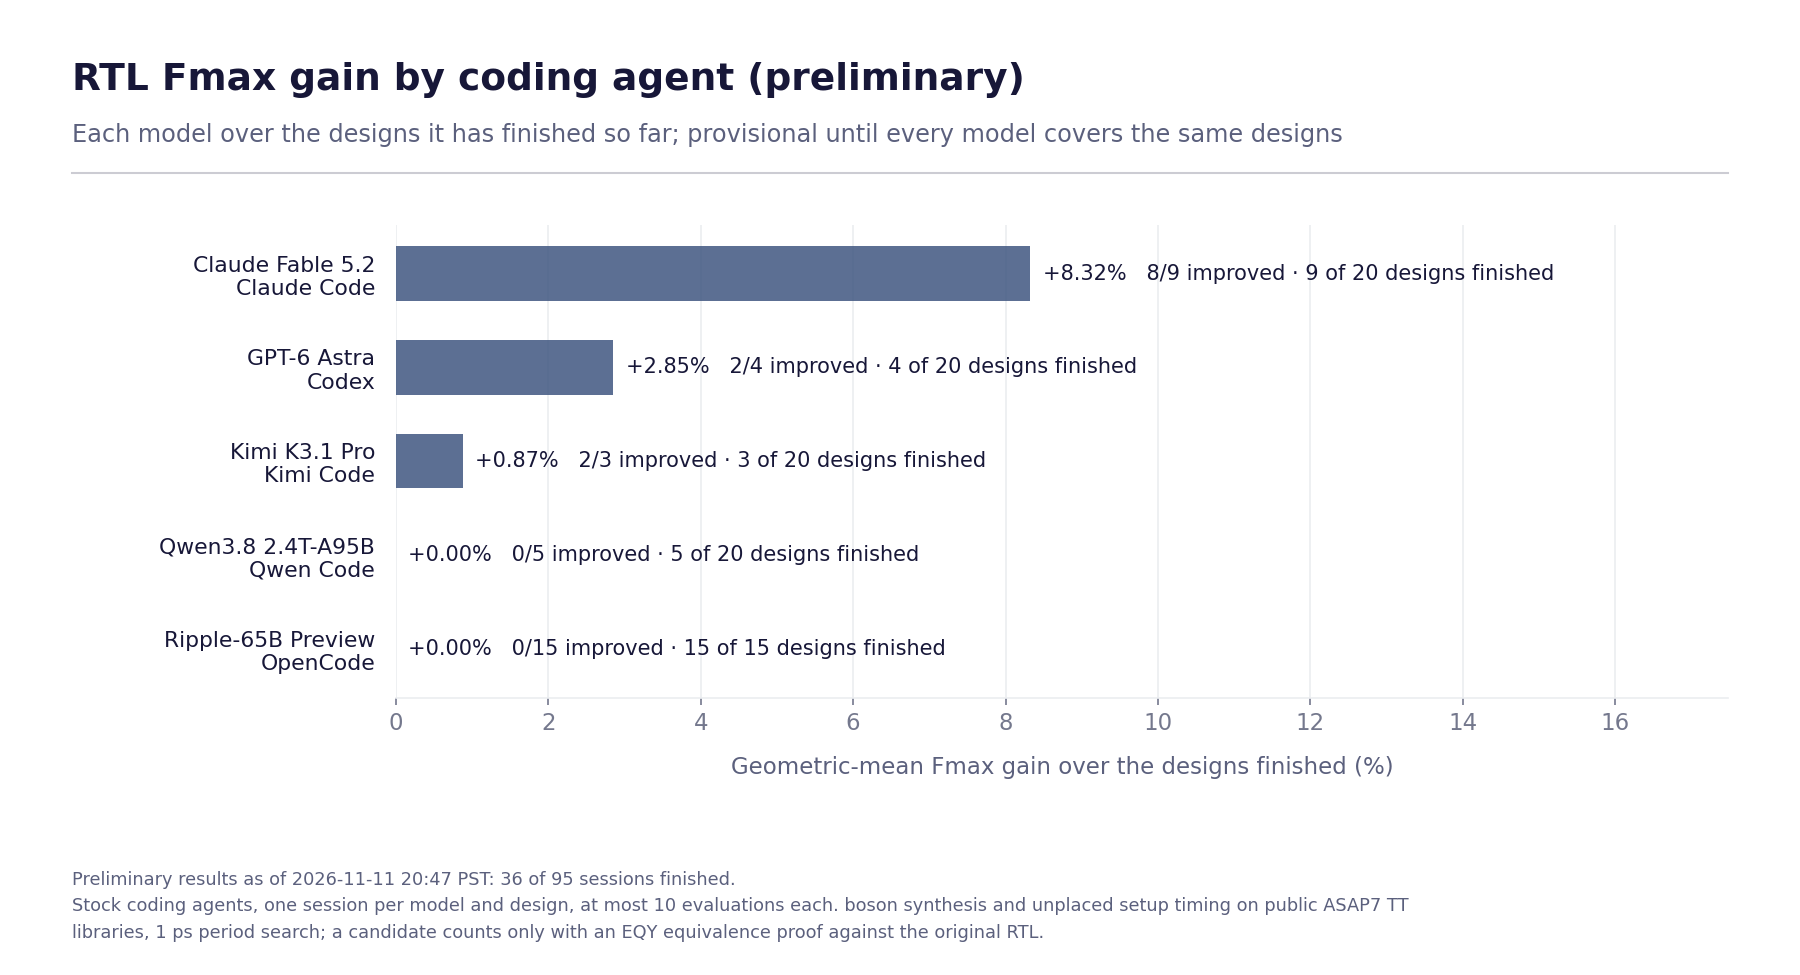
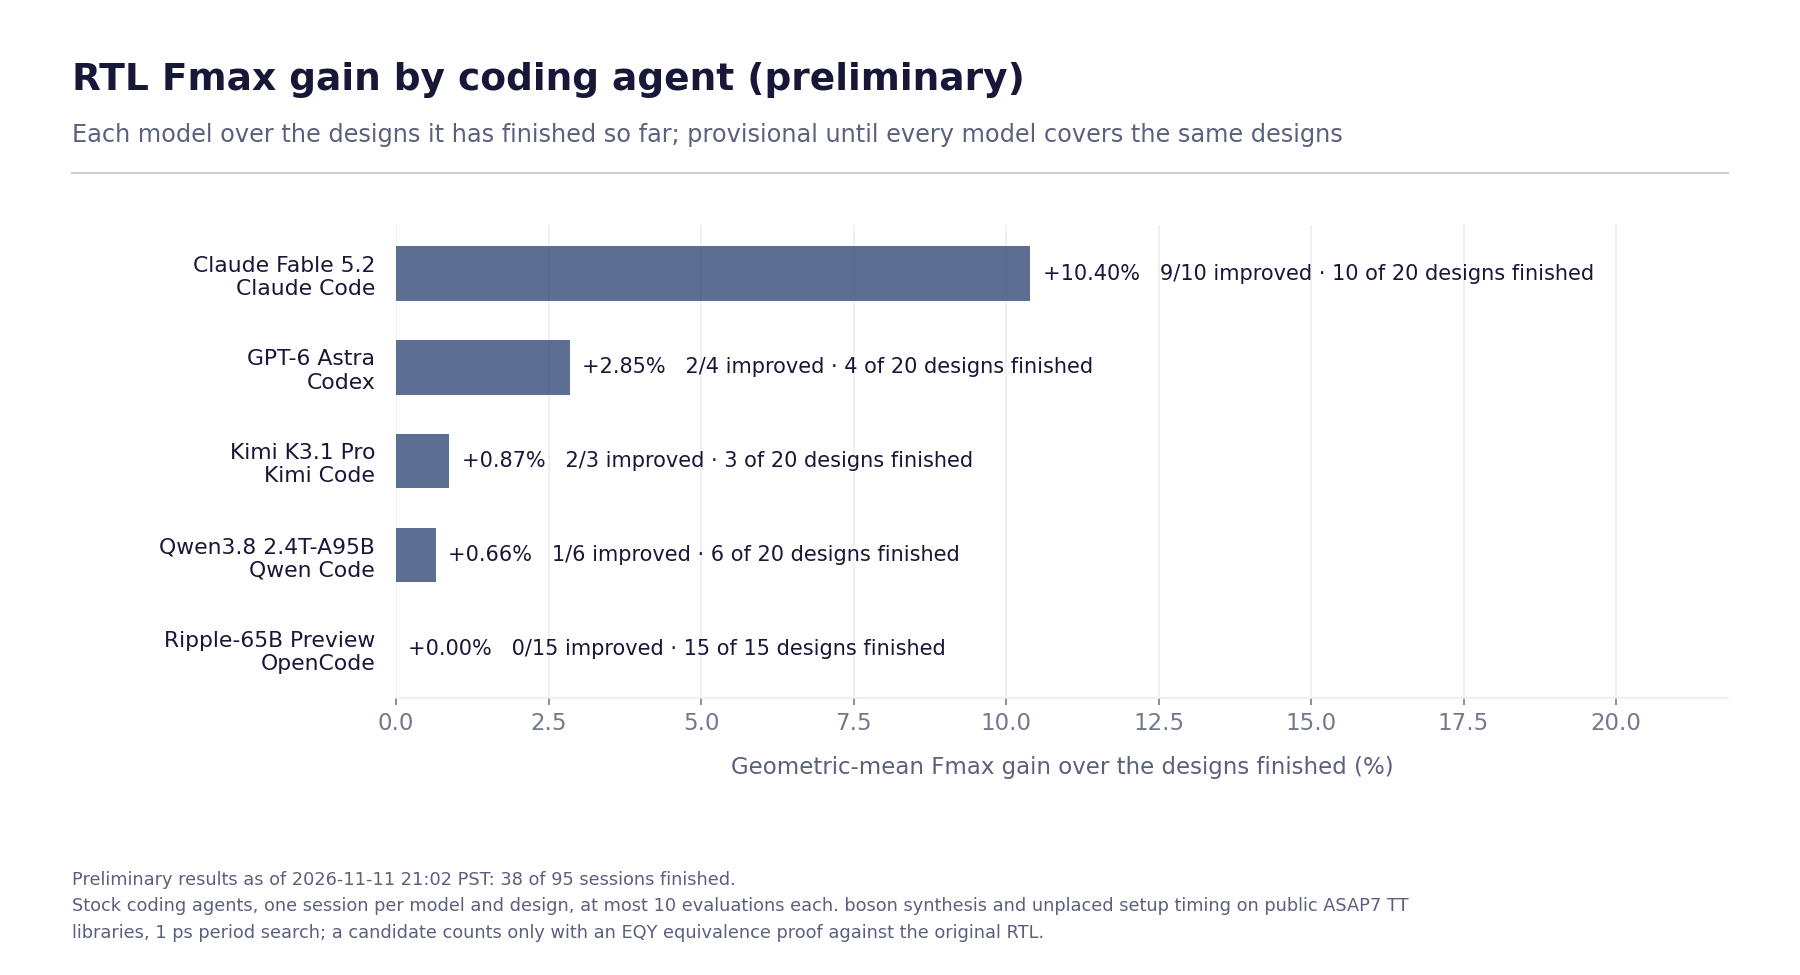
Refresh preliminary results: 38 of 95 sessions finished
Data as of 2026-11-11 21:02 PST.

diff --git a/README.md b/README.md
@@ -21,26 +21,26 @@ accepted only when it is proven equivalent and faster than the session's best so
 ## Results
 
 <!-- results:start -->
-**Status:** 36 of 95 sessions finished (5 models, 20 designs), as of 2026-11-11 20:47 PST.
+**Status:** 38 of 95 sessions finished (5 models, 20 designs), as of 2026-11-11 21:02 PST.
 
 ### Coverage
 
 | Model | Developer | Harness | Access | Sessions finished |
 |---|---|---|---|---:|
-| Claude Fable 5.2 | Anthropic | Claude Code 2.1.322 | Official CLI signed in to a subscription | 9 / 20 |
+| Claude Fable 5.2 | Anthropic | Claude Code 2.1.322 | Official CLI signed in to a subscription | 10 / 20 |
 | GPT-6 Astra | OpenAI | Codex 0.154.0 | Official CLI signed in to a subscription | 4 / 20 |
 | Kimi K3.1 Pro | Moonshot AI | Kimi Code 2.5.2 | OpenRouter, pinned to Moonshot AI's own endpoint (MXFP4), fallbacks disabled | 3 / 20 |
-| Qwen3.8 2.4T-A95B | Qwen (Alibaba) | Qwen Code 0.27.1 | OpenRouter, one pinned provider (SiliconFlow, FP8) | 5 / 20 |
+| Qwen3.8 2.4T-A95B | Qwen (Alibaba) | Qwen Code 0.27.1 | OpenRouter, one pinned provider (SiliconFlow, FP8) | 6 / 20 |
 | Ripple-65B Preview | Ricursive AI | OpenCode 1.19.5 | Self-hosted (SGLang 0.5.19, BF16) for its first 15 designs; OpenRouter pinned to PrimeIntellect (BF16) for later sessions | 15 / 15 |
 
 ### Results by model
 
 | Model | Harness | Designs finished | Fmax gain (geomean) | Designs improved | Mean evaluations | Candidates not proven |
 |---|---|---:|---:|---:|---:|---:|
-| Claude Fable 5.2 | Claude Code | 9 / 20 | +8.32% | 8 / 9 | 4.6 | 39% (16 / 41) |
+| Claude Fable 5.2 | Claude Code | 10 / 20 | +10.40% | 9 / 10 | 5.0 | 34% (17 / 50) |
 | GPT-6 Astra | Codex | 4 / 20 | +2.85% | 2 / 4 | 3.2 | 69% (9 / 13) |
 | Kimi K3.1 Pro | Kimi Code | 3 / 20 | +0.87% | 2 / 3 | 6.0 | 56% (10 / 18) |
-| Qwen3.8 2.4T-A95B | Qwen Code | 5 / 20 | +0.00% | 0 / 5 | 0.4 | 100% (2 / 2) |
+| Qwen3.8 2.4T-A95B | Qwen Code | 6 / 20 | +0.66% | 1 / 6 | 0.8 | 80% (4 / 5) |
 | Ripple-65B Preview | OpenCode | 15 / 15 | +0.00% | 0 / 15 | 0.2 | 100% (3 / 3) |
 
 Fmax gain is the geometric mean of each finished session's Fmax ratio (baseline period / best accepted period) over the designs that model has finished. Models have finished different designs, so this order is provisional, not a like-for-like ranking, until every model covers the same designs. "Candidates not proven" is the share of evaluations whose equivalence proof did not pass.
@@ -52,7 +52,7 @@ Fmax gain is the geometric mean of each finished session's Fmax ratio (baseline 
 | `cheshire.default` | 1.047 | 2 | 0.982 | +6.62% | Claude Fable 5.2 |
 | `cv32e40p.default` | 0.657 | 2 | 0.622 | +5.63% | Claude Fable 5.2 |
 | `cva6.default` | 1.038 | 2 | 1.016 | +2.17% | Claude Fable 5.2 |
-| `cvfpu.fp32_fma` | 1.401 | 1 | 1.401 | +0.00% | no improvement yet |
+| `cvfpu.fp32_fma` | 1.401 | 2 | 1.070 | +30.93% | Claude Fable 5.2 |
 | `cvfpu.full` | 2.114 | 1 | 2.114 | +0.00% | no improvement yet |
 | `ibex.full` | 0.935 | 1 | 0.935 | +0.00% | no improvement yet |
 | `ibex.minimal` | 0.716 | 1 | 0.716 | +0.00% | no improvement yet |
@@ -65,7 +65,7 @@ Fmax gain is the geometric mean of each finished session's Fmax ratio (baseline 
 | `mempool.minpool` | 2.869 | 3 | 2.374 | +20.85% | Claude Fable 5.2 |
 | `ara.default` | 1.064 | 2 | 0.942 | +12.95% | Claude Fable 5.2 |
 | `pulp_c910.default` | 1.005 | 4 | 0.930 | +8.06% | GPT-6 Astra |
-| `spatz.default` | 2.266 | 2 | 2.250 | +0.71% | Kimi K3.1 Pro |
+| `spatz.default` | 2.266 | 3 | 2.179 | +3.99% | Qwen3.8 2.4T-A95B |
 | `snitch_cluster.default` | 2.128 | 4 | 1.751 | +21.53% | Claude Fable 5.2 |
 | `redmule.default` | 1.636 | 3 | 1.580 | +3.54% | GPT-6 Astra |
 | `snitch_cluster.default_latch` | 2.169 | 0 | — | — | — |
@@ -74,11 +74,11 @@ Fmax gain is the geometric mean of each finished session's Fmax ratio (baseline 
 
 Counts over every finished session of the models above. They describe what happened; with one session per model and design they do not establish causes or rankings.
 
-- 77 candidates evaluated: 28 accepted, 8 proven equivalent but not faster than the session's best, 40 not proven (30 with a partition EQY could not prove, 4 at the proof deadline, 6 over the proof memory budget), 1 failed to compile or measure.
-- Of 36 finished sessions, 10 ended with the agent finishing on its own, 16 ran to the time budget and 10 ended with an agent error.
-- Sessions used 2.1 of the 10 allowed evaluations on average; 1 used all 10.
-- Largest single gain so far: `snitch_cluster.default` by Claude Fable 5.2, 2.128 ns to 1.751 ns (+21.53% Fmax).
-- No finished session has improved `cvfpu.fp32_fma`, `cvfpu.full`, `ibex.full`, `ibex.minimal`, `nvdla.top`, `opope.default`, `serial_link.default`, `spi_host.default` yet.
+- 89 candidates evaluated: 37 accepted, 8 proven equivalent but not faster than the session's best, 43 not proven (32 with a partition EQY could not prove, 5 at the proof deadline, 6 over the proof memory budget), 1 failed to compile or measure.
+- Of 38 finished sessions, 11 ended with the agent finishing on its own, 16 ran to the time budget and 11 ended with an agent error.
+- Sessions used 2.3 of the 10 allowed evaluations on average; 1 used all 10.
+- Largest single gain so far: `cvfpu.fp32_fma` by Claude Fable 5.2, 1.401 ns to 1.070 ns (+30.93% Fmax).
+- No finished session has improved `cvfpu.full`, `ibex.full`, `ibex.minimal`, `nvdla.top`, `opope.default`, `serial_link.default`, `spi_host.default` yet.
 <!-- results:end -->
 
 ## Charts
